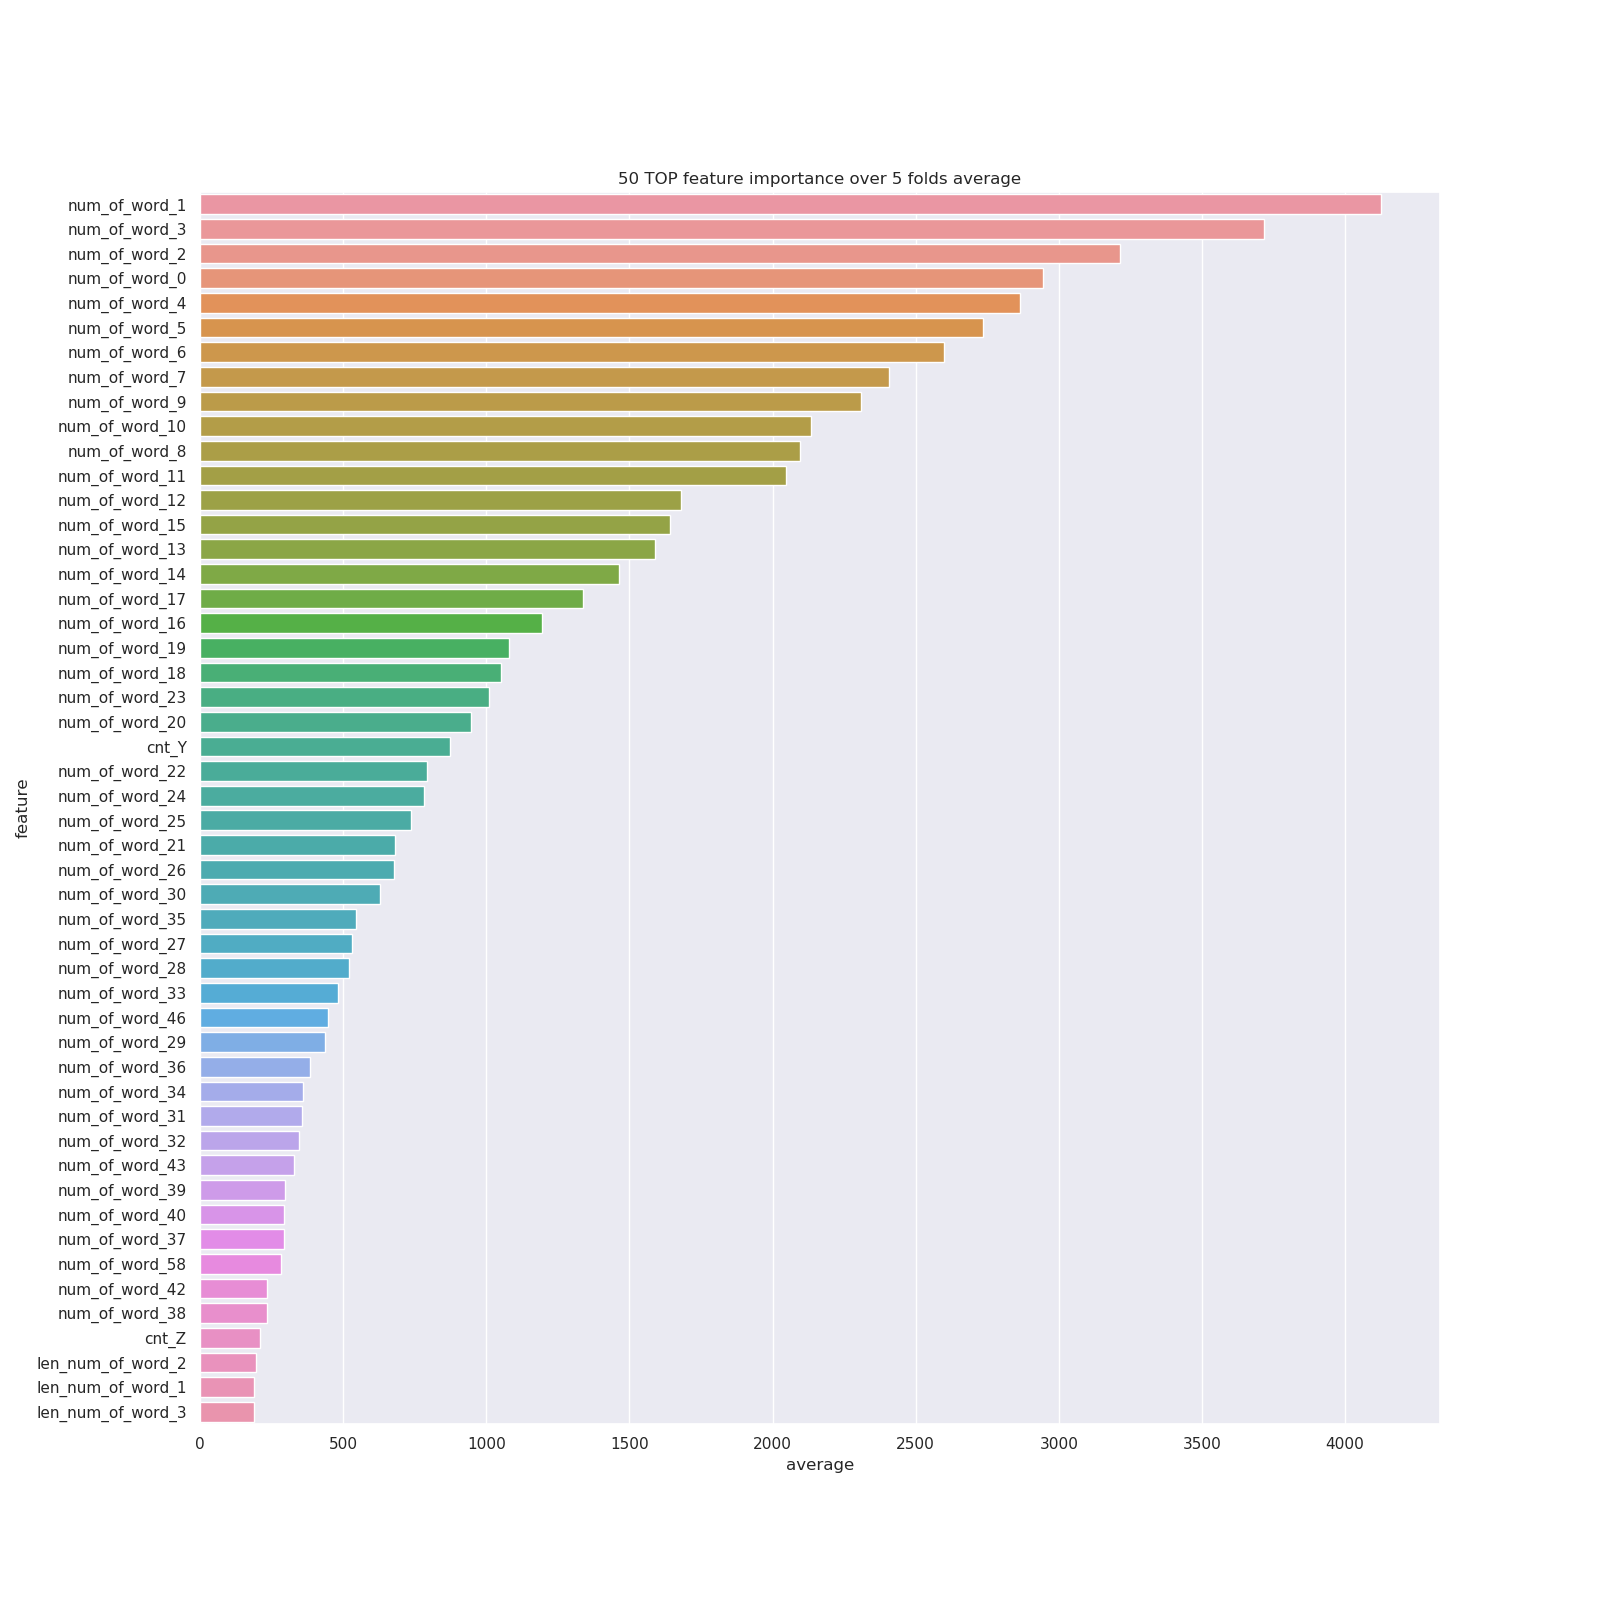
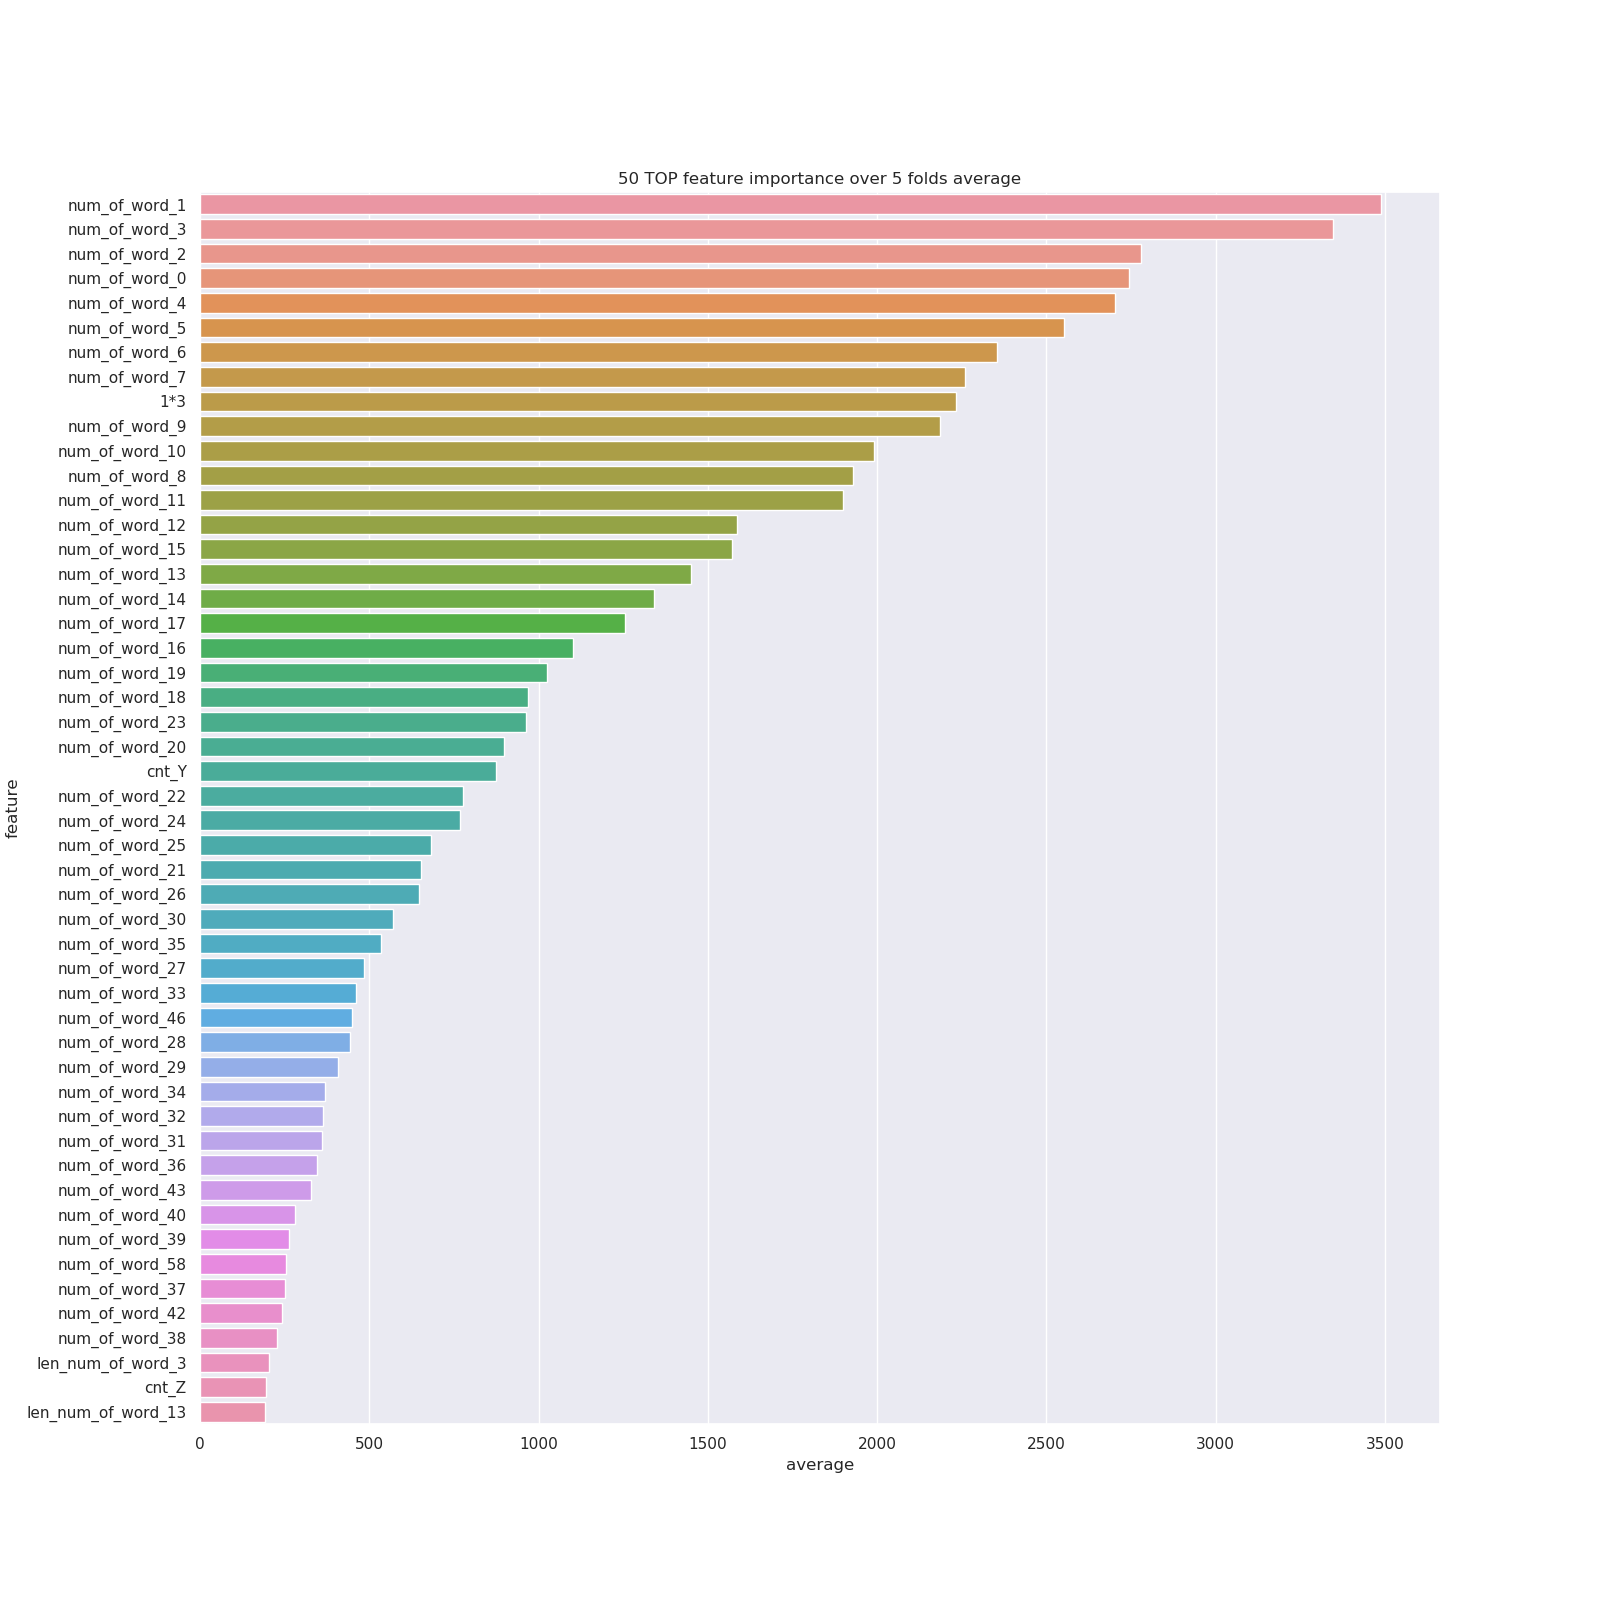
222

diff --git a/bin/train_lgbm.py b/bin/train_lgbm.py
@@ -23,6 +23,8 @@ for i in X.columns:
     X.loc[X[i]=="X",i]=1
     X.loc[X[i]=="Y",i]=2
     X.loc[X[i]=="Z",i]=3
+X["1*3"]=X["num_of_word_1"]*X["num_of_word_2"]
+
     
 X.drop(["txt"],axis=1,inplace=True)
 X.fillna(np.nan,inplace=True)
